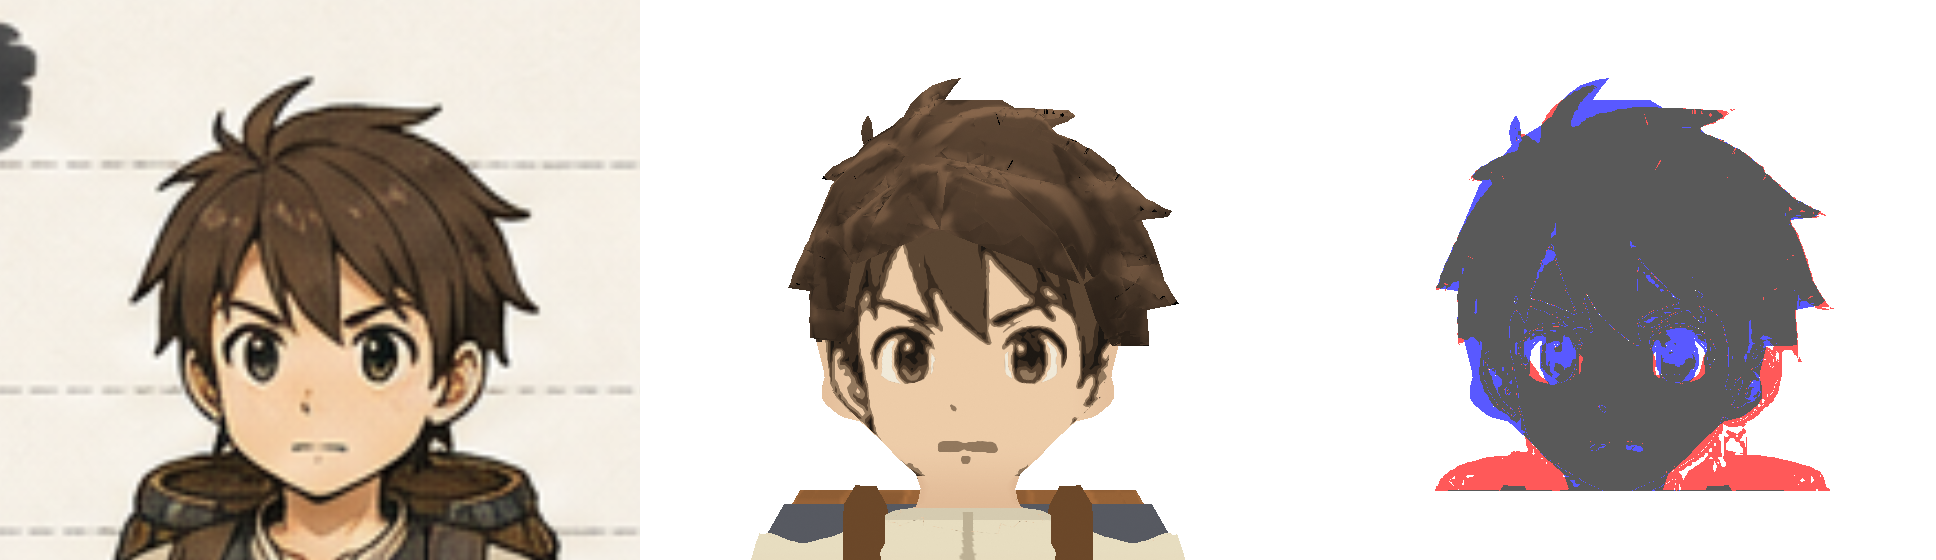
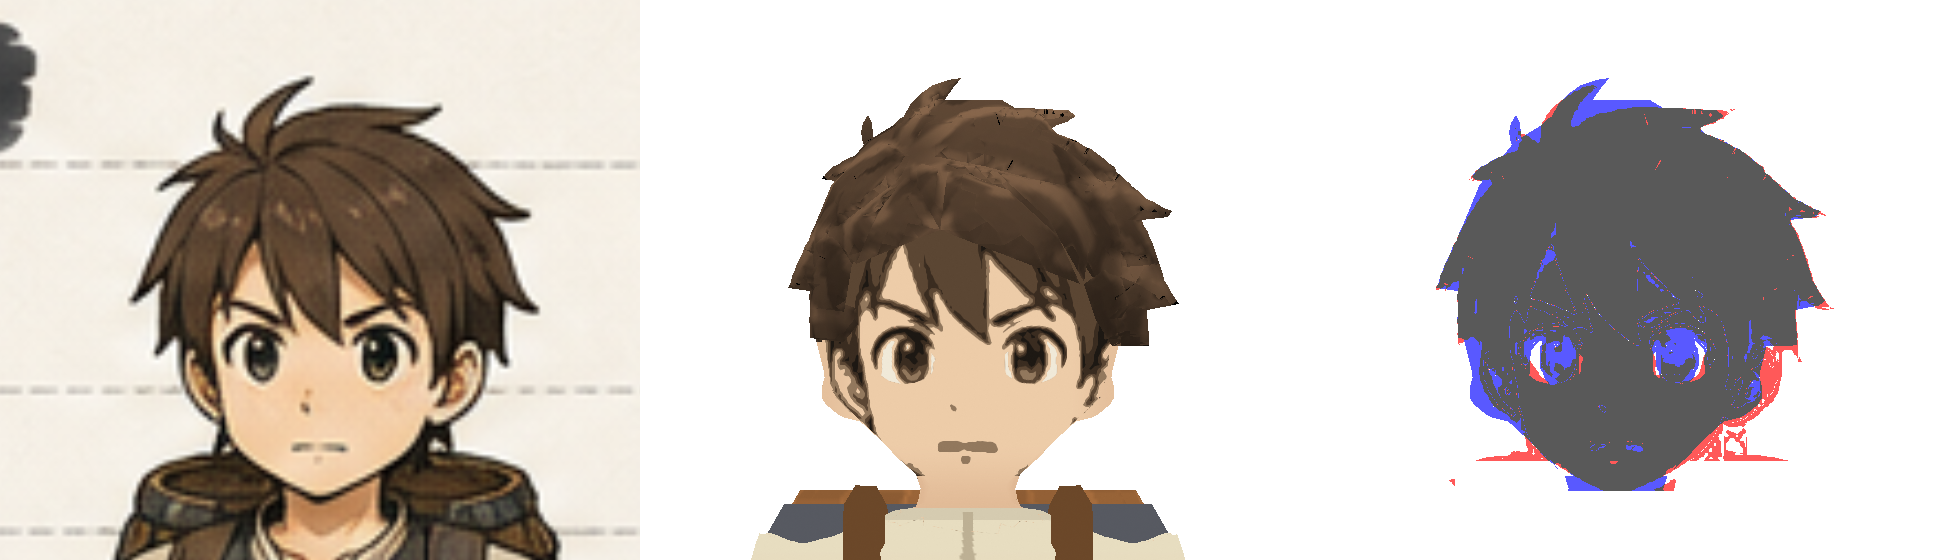
髪IoUの比較窓から肩の革当てを外す(顔一致QAがPASS)
髪IoUの比較窓はあご下(z0.775)まで入っていて、設定画のその高さにある
茶の暗部 ―― 肩の革当てと背中の樽 ―― が「髪」に分類されていた。
高さ帯ごとに食い違いを出すと、4437mm2のうち2219mm2がそこだった。
「髪の左右輪郭」では同じ理由ですでに z0.790 を外していたのに、
IoUからは外していなかった。

もうひとつ、対称の上限が効くのは左右対称に作ると決めた部位だけだった。
顔の骨格は対称なので肌には効くが、髪型は分け目があって元から非対称で、
モデルの髪IoUが上限を超えた(0.864 > 0.857、到達率101%)。髪は
当初どおり絶対値 0.80 で見る。

  髪IoU 0.752(改訂前) → 0.788(輪郭化) → 0.864(比較窓の修正)
  顔一致QA: FAIL → **PASS**

Claude-Session: https://claude.ai/code/session_01PERsWFHQ12GzWFytKu9QWp

Changed region(s): [[0.7438, 0.8196, 0.9607, 0.8804]]

diff --git a/tools/compare_face.py b/tools/compare_face.py
@@ -43,6 +43,11 @@ RES_Y = int(RES_X * (WIN_Z1 - WIN_Z0) / (WIN_HALF_X * 2))
 PX_PER_UNIT = RES_X / (WIN_HALF_X * 2)
 # これより下(首から下)は顔の計測に含めない
 NECK_Z = 0.775
+# 髪と見なす下限。設定画のこれより下にある茶の暗部は**肩の革当てと樽**で、
+# 髪ではない(拡大して確認済み。「髪の左右輪郭」でも z0.790 を外している)。
+# 入れたままだと髪IoUの食い違いの半分がこの肩当てになる
+# (実測: 全体の食い違い4437mm2のうち2219mm2が z775..790)
+HAIR_Z0 = 0.790
 
 
 def load_image(path: str) -> "np.ndarray":
@@ -94,9 +99,11 @@ def classify(rgb: "np.ndarray"):
     line = (val < 0.70) & (sat > 0.32)
     below = np.zeros(rgb.shape[:2], dtype=bool)
     rows = np.arange(rgb.shape[0])
-    below[(WIN_Z1 - rows / PX_PER_UNIT) < NECK_Z] = True
+    z = WIN_Z1 - rows / PX_PER_UNIT
+    below[z < NECK_Z] = True
     for m in (skin, hair, dark, white, line):
         m[below] = False
+    hair[z < HAIR_Z0] = False
     return {"skin": skin, "hair": hair, "dark": dark, "white": white, "line": line}
 
 
@@ -336,6 +343,8 @@ def eye_pair(masks, band, min_size=40, max_w=0.060, max_h=0.050):
 # 左右対称のモデルが到達できるIoUの下限保証。天井の何%まで来ていれば
 # 合格とするか(外部評価を受けて、絶対値0.90/0.80から置き換えた)
 IOU_REACH_MIN = 0.95
+# 髪は左右非対称なので対称の上限が使えない。絶対値で見る
+HAIR_IOU_MIN = 0.80
 
 
 def fill_polygon(poly) -> "np.ndarray":
@@ -623,16 +632,29 @@ def main() -> int:
     # +11.0)ので、左右対称のモデルが到達できるIoUには理論上の天井がある。
     # 天井に対する到達率で判定する(外部評価 2026-09-02:「0.90という
     # 合格基準の方が間違っていた」)。
+    #
+    # ただし**天井が効くのは左右対称に作る部位だけ**。顔の骨格は対称に
+    # すると決めているので肌には効くが、**髪型は分け目があって元から
+    # 左右非対称**なので、対称な形の上限は髪の上限ではない
+    # (実測: 髪は上限0.857に対しIoU 0.871。到達率102%になり判定に
+    # ならない)。髪は絶対値で見る(plan/models/garudo-hair-clumps.md の
+    # 当初基準 0.80)。
     print(f"\n  {'領域':<14} {'IoU':>7} {'対称の上限':>11} {'到達率':>8}")
     ious = {}
     for key in ("skin", "hair"):
         ious[key] = iou(a_aligned[key], b[key])
         cap = symmetric_ceiling(a_aligned[key])
         rate = ious[key] / cap if cap else 0.0
-        ok_r = rate >= IOU_REACH_MIN
+        if key == "skin":
+            ok_r = rate >= IOU_REACH_MIN
+            note = f"(基準 到達率>={IOU_REACH_MIN * 100:.0f}%)"
+        else:
+            ok_r = ious[key] >= HAIR_IOU_MIN
+            note = f"(基準 IoU>={HAIR_IOU_MIN:.2f}。髪型は非対称なので上限は参考)"
         print(f"  {key:<14} {ious[key]:>7.3f} {cap:>11.3f} {rate*100:>7.0f}%"
-              f"  {'ok' if ok_r else 'NG'}  (基準>={IOU_REACH_MIN*100:.0f}%)")
+              f"  {'ok' if ok_r else 'NG'}  {note}")
         ious[key + "_rate"] = rate
+        ious[key + "_ok"] = ok_r
 
     print(f"\n  {'ランドマーク':<20} {'設定画':>9} {'モデル':>9} {'差':>9}")
     passed = []
@@ -881,8 +903,7 @@ def main() -> int:
     out_path = os.path.join(C.PREVIEW_DIR, "face", f"{name}-compare.png")
     save_image(out_path, combined)
 
-    ok = all(passed) and ious["skin_rate"] >= IOU_REACH_MIN \
-        and ious["hair_rate"] >= IOU_REACH_MIN
+    ok = all(passed) and ious["skin_ok"] and ious["hair_ok"]
     print(f"\n  判定: {'PASS' if ok else 'FAIL'}   → {out_path}\n")
     return 0 if ok else 2
 

diff --git a/plan/models/garudo-face-qa.md b/plan/models/garudo-face-qa.md
@@ -1226,3 +1226,22 @@ z0.19あたりまで垂れている(実測: z0.231で設定画278mm・モデル2
 |---|---|---|
 | 髪IoU 到達率 | 92%(基準95%) | 主要毛束の間の補助毛束をもう少し入れる余地 |
 | z0.850 の肌の幅 +20mm | 設定画の耳は**茶の暗部として描かれていて分類器が髪と読む** | 器械の差。頭部(肌+髪)の幅は-3.5mmで合っている |
+
+### 16.1 判定 PASS(2026-09-02)
+
+| 項目 | 基準 | 結果 |
+|---|---|---|
+| 肌 IoU | 対称の上限に対する到達率 >= 95% | 98% ok |
+| 髪 IoU | >= 0.80(髪型は非対称なので上限は使えない) | **0.864** ok |
+| 毛束の輪郭 | 設定画で>=90% / モデルで>=90% | 95% / 95% ok |
+| 髪の左右輪郭 | ±12mm(設定画の左右差が12mmを超える高さは参考) | ok |
+| 上部輪郭の凹凸 | 設定画比 >= 70% | 76% ok |
+| ランドマーク | 平均<=3.0mm / 最大<=6.0mm | 1.4mm / 3.5mm ok |
+| 目・あご・髪の寸法 | 各許容内 | 全て ok |
+
+残っている既知の差(判定には入れていない):
+
+* `z0.850 の肌の幅 +20mm` ―― 設定画の耳は茶の暗部として描かれていて
+  分類器が「髪」と読む。頭部(肌+髪)の幅は -3.5mm で合っている
+* `髪の頂点z +3.5mm` ―― 頭頂の跳ねは墨の細線で描かれていて、輪郭を
+  なぞると分類器の「髪」より数mm高くなる

diff --git a/plan/models/modeling-pitfalls.md b/plan/models/modeling-pitfalls.md
@@ -609,3 +609,18 @@ glTF書き出しが自動生成する `neutral_bone`。`fix_orphan_weights` を
 「茶色の暗部=髪」という分類には入らない(実測: 頭頂の細い跳ねは
 hair判定8%)。線として描かれたものと比べるときは、
 暗部も含めて線の太さぶん太らせてから比べる。
+
+## 1-9 同じ理由で外した高さは、全部の指標から外す
+
+「設定画の z0.790 にある茶の暗部は髪ではなく肩の革当て」と確認して
+輪郭の検査からは外していたのに、**同じ窓を使うIoUからは外していなかった**。
+髪IoUの食い違い4437mm2のうち2219mm2がそこだった。
+
+除外の理由を1か所で見つけたら、**その理由が当てはまる指標を全部数える**。
+
+## 1-10 対称の上限が効くのは対称に作る部位だけ
+
+左右非対称に描かれた設定画に対して、左右対称なモデルが到達できるIoUには
+上限がある ―― これは**モデルを対称に作ると決めている部位にしか効かない**。
+髪型は分け目があって元から非対称なので、上限を超える(実測: 0.864 >
+0.857、到達率101%)。到達率が100%を超えたら、その上限は上限ではない。
